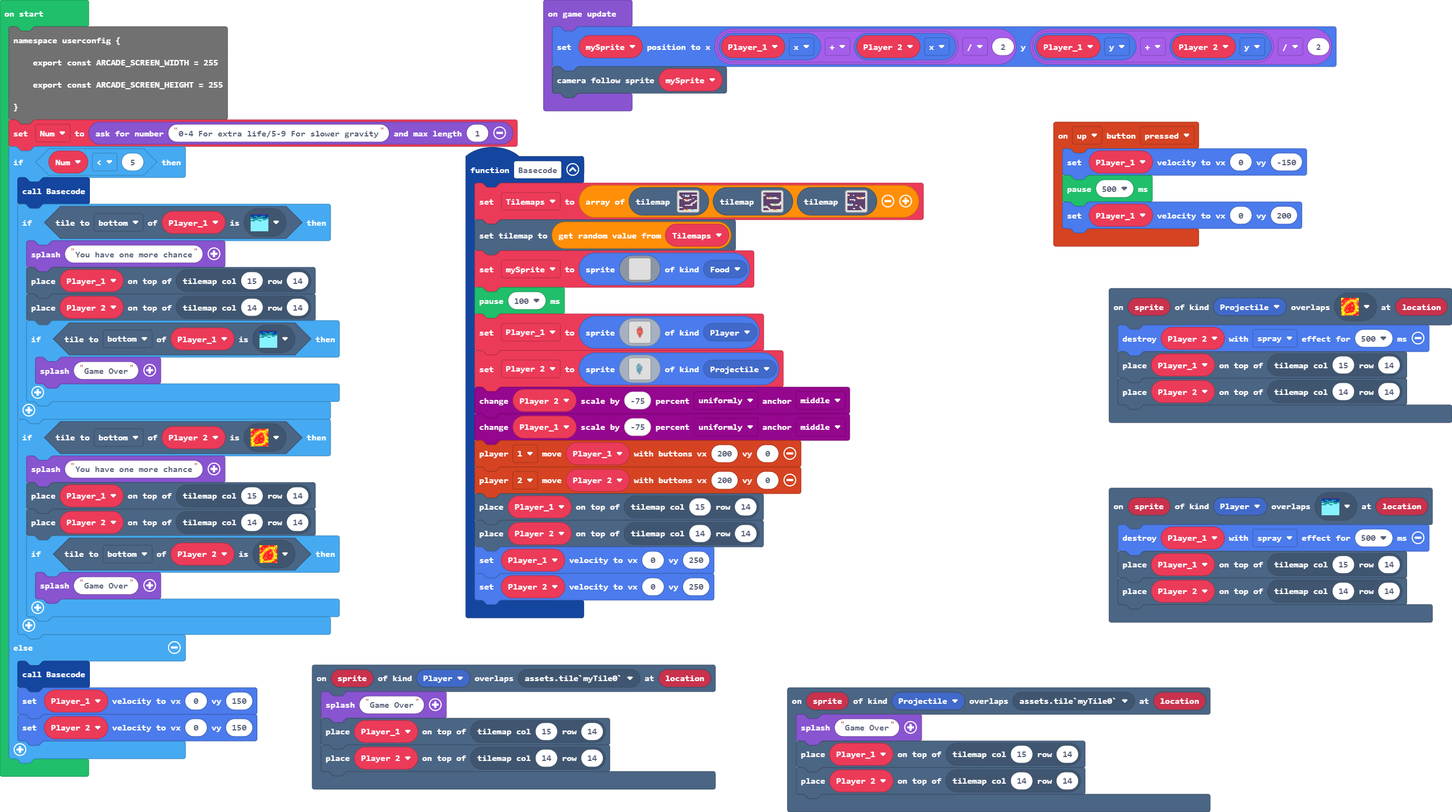
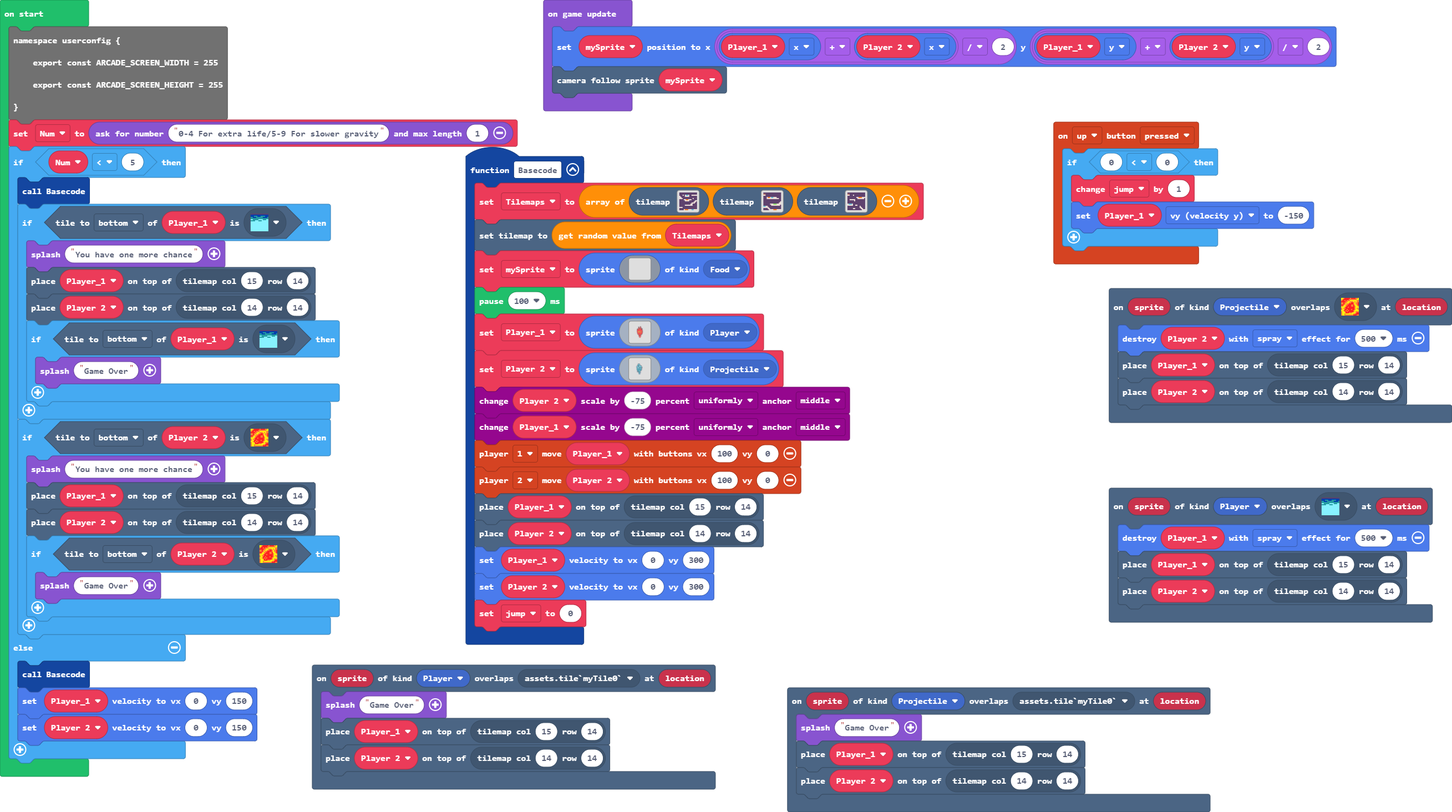
Update pxt.json, main.blocks, main.ts, images.g.jres, images.g.ts

Changed region(s): [[0.7116, 0.1844, 0.9282, 0.3381], [0.3094, 0.7377, 0.4022, 0.7992]]

diff --git a/images.g.ts b/images.g.ts
@@ -22,109 +22,6 @@ namespace myImages {
 . . . . . . . . . . . . . . . . 
 . . . . . . . . . . . . . . . . 
 `;
-            case "image1":
-            case "fire boy water girl":return img`
-..............................dfc....................................................................................................................
-..............................dffb...........................................bfffd...................................................................
-.............................................................................bfcfc...................................................................
-.............................................................................cfeffd..................................................................
-..............................................................cfb............cf22fc..................................................................
-..............................................................bffb...........cf22ffd.................................................................
-..............................................................bfffb..........ff22efb.................................................................
-..............................................................bffffd.........ff222fc.d...............................................................
-..................................................d...........dfcffc........dfe222efd.d..............................................................
-..............................................................dfeeffb.......bfe222efc................................................................
-..............................................................dfe2effd.....dbfe2222fc................................................................
-..............................................................dfe22ffc......cfe2222efd...............................................................
-..............................................................bfe22effd.....cfe2222efc...............................................................
-.............................................................dbfe222ffb....dff222222fc...............................................................
-..............................................................cfe222efc....dff222222ffd..............................................................
-..............................................................cfe2222ffd...bfe222222efbd....b........................................................
-..............................................................ff22222ffb...bfe222222efc....dfd.......................................................
-.............................................................bfc22222efc...cf22222222ff....dfb.......................................................
-............................................................dcfe222222ffd.dff22222222ffd...cfc.......................................................
-............................................................dff2222222ffd.dfc22222222ffd..dfffd......................................................
-.....................................................cd.....cfe2222222ffd.bfe22222222efb..dfffb......................................................
-.....................................................fc....dff22222222efb.cf222222222efc..bfffb.d....................................................
-....................................................cffb...bfe22222222efbdff2222222222ff..cfefc......................................................
-....................................................cffcd.dcfe22222222efcbfe2222222222ffddffeffd.....................................................
-....................................................feefbddff2222222222fccf22222222222ffdbff2ffb.....................................................
-....................................................feefc1bfe2222222222fffe22222222222ffbffe2efb.....................................................
-....................................................f22ffdbfe2222222222fff222222222222efcffe22fc.....................................................
-...................................................bf22efbbfe2222222222ffe222222222222effff222ffd....................................................
-...................................................cf222fccf22222222222e222222222222222fffe222cfd....................................................
-...................................................ff222ffff222222222222222222222222222fff2222efb....................................................
-...................................................fe222ffff222222222222222222222222222ffe2222efbd...................................................
-...................................................fe222effe222222222222222222222222222fe222222fc1...................................................
-...................................................fe2222ffe222222222222222222222222222e2222222fc1...................................................
-...................................................fe2222ff222222222222222222222222222222222222cfd...................................................
-...................................................fe2222ff222222222222222222222222222222222222efd...................................................
-...................................................fe2222fe222222222222222222222222222222222222efd...................................................
-...................................................fe2222ee2222222222222222222222222222222222222fb...................................................
-...................................................fe2222222222222222222222222222222222222222222fc...................................................
-...................................................fe2222222222222222222222222222222222222222222fc...................................................
-...................................................fe2222222222222222222222222222222222222222222fc...................................................
-...................................................fe2222222222222222222222222222222222222222222fc...................................................
-...................................................fe2222222222222222222222222222222222222222222ff...................................................
-...................................................fe222222222222ecffe22222222222222222222222222ef...................................................
-...................................................fe22222222222cee44ece222222222222222222222222ef...................................................
-...................................................fe2222222222fe555554ee2222222effff22222222222ef...................................................
-...................................................ff2222222222e55555554f222222ee754ee2222222222ef...................................................
-...................................................ff222222222f455555555f222222e55555c2222222222ef...................................................
-...................................................cf222222222c555555555e22222e4555554e222222222ef...................................................
-...................................................bf222222222c55555f555e22222f45e5555f222222222ef...................................................
-...................................................df222222222f55555c555f22222e45c4554e222222222ef...................................................
-...................................................dfe22222222f455555554c222222e55555e2222222222ef...................................................
-...................................................dfe22222222ee5555554f2222222fe555bf2222222222ef...................................................
-....................................................fe222222222ece444ece22222222feeefe2222222222ef...................................................
-....................................................cf2222222222efffff22222222222222222222222222ff...................................................
-....................................................cf222222222222222222222222222222222222222222fc...................................................
-....................................................bfe22222222222222222222222222222222222222222fc...................................................
-....................................................dfe2222222222222222222222222222222222222222efb...................................................
-....................................................dfe2222222222222222222222222222222222222222efd...................................................
-.....................................................cf2222222222222222222222222222222222222222cfd...................................................
-.....................................................bf222222222222222222222222222222222222222efc....................................................
-.....................................................dfe22222222222222222222222222222222222222efb....................................................
-.....................................................dcf22222222222222222222222222222222222222ffd....................................................
-......................................................cfe222222222222222222222222222222222222efc.....................................................
-......................................................dfc2222222222ee222222222222222222222222ffd.....................................................
-......................................................dcfe222222222eefe222222222222222222222efc......................................................
-.......................................................bff22222222222effe2222222222222222222ffd......................................................
-........................................................cfe22222222222effffcccce22222222222efc.......................................................
-........................................................dffe2222222222222eefffee2222222222effd.......................................................
-.........................................................bff22222222222222222222222222222effd........................................................
-.........................................................dcfe222222222222222222222222222effb..d......................................................
-..........................................................dcfe4222222222222222222222222effcd.........................................................
-.......................................................d...dffc4222222222222222222222eeffb...........................................................
-............................................................dfffe2222222222222222222efffb............................................................
-............................................................ddcfffe222222222222222efffcd.............................................................
-...............................................................bffffee22222222eecfffcb...............................................................
-................................................................dbcffffffffffffffffbd1d..............................................................
-...............................................................d..dfefffffffffffeee..d...............................................................
-................................................................d.ce2222eeee222222ed...d.............................................................
-..................................................................f2222222222222222c.................................................................
-.................................................................df22e2222222222e22eb................................................................
-..............................................................d..c222ff222222222fe22c................................................................
-.................................................................f22ecf222222222cc22eb...............................................................
-................................................................df22fbf222222222ede22c...............................................................
-................................................................be22cdf222222222e.c22ed..............................................................
-................................................................be2fbdf222222222e.de2ed..............................................................
-................................................................dc2cdde222222222e..cee...............................................................
-.................................................................bfb.de222222222e..dd.d..............................................................
-.................................................................dd..df222222222e....................................................................
-.....................................................................df222222222cdd..................................................................
-.....................................................................df2222fe222ed...................................................................
-....................................................................ddf2222bf222ed...................................................................
-.....................................................................df222ebe222ed...................................................................
-.....................................................................df222ebe222ed...................................................................
-.....................................................................df222edb222ed...................................................................
-......................................................................f222e1b222ed...................................................................
-......................................................................f222e1de22ed...................................................................
-.....................................................................df222b1de22ed...................................................................
-.....................................................................................................................................................
-.....................................................................................................................................................
-.....................................................................................................................................................
-`;
             case "image3":
             case "fire boy water girl0":return img`
 ....................................................db...............................................................................................
@@ -224,6 +121,109 @@ namespace myImages {
 .......................................................d..........c6668dd6668b..............d........................................................
 ..................................................................c666cdd6668b.......................................................................
 ..................................................................c666c11c668b.......................................................................
+.....................................................................................................................................................
+.....................................................................................................................................................
+.....................................................................................................................................................
+`;
+            case "image1":
+            case "fire boy water girl":return img`
+.....................................................................................................................................................
+.............................................................................bfffd...................................................................
+.............................................................................bfcfc...................................................................
+.............................................................................cfeffd..................................................................
+..............................................................cfb............cf22fc..................................................................
+..............................................................bffb...........cf22ffd.................................................................
+..............................................................bfffb..........ff22efb.................................................................
+..............................................................bffffd.........ff222fc.d...............................................................
+..................................................d...........dfcffc........dfe222efd.d..............................................................
+..............................................................dfeeffb.......bfe222efc................................................................
+..............................................................dfe2effd.....dbfe2222fc................................................................
+..............................................................dfe22ffc......cfe2222efd...............................................................
+..............................................................bfe22effd.....cfe2222efc...............................................................
+.............................................................dbfe222ffb....dff222222fc...............................................................
+..............................................................cfe222efc....dff222222ffd..............................................................
+..............................................................cfe2222ffd...bfe222222efbd....b........................................................
+..............................................................ff22222ffb...bfe222222efc....dfd.......................................................
+.............................................................bfc22222efc...cf22222222ff....dfb.......................................................
+............................................................dcfe222222ffd.dff22222222ffd...cfc.......................................................
+............................................................dff2222222ffd.dfc22222222ffd..dfffd......................................................
+.....................................................cd.....cfe2222222ffd.bfe22222222efb..dfffb......................................................
+.....................................................fc....dff22222222efb.cf222222222efc..bfffb.d....................................................
+....................................................cffb...bfe22222222efbdff2222222222ff..cfefc......................................................
+....................................................cffcd.dcfe22222222efcbfe2222222222ffddffeffd.....................................................
+....................................................feefbddff2222222222fccf22222222222ffdbff2ffb.....................................................
+....................................................feefc1bfe2222222222fffe22222222222ffbffe2efb.....................................................
+....................................................f22ffdbfe2222222222fff222222222222efcffe22fc.....................................................
+...................................................bf22efbbfe2222222222ffe222222222222effff222ffd....................................................
+...................................................cf222fccf22222222222e222222222222222fffe222cfd....................................................
+...................................................ff222ffff222222222222222222222222222fff2222efb....................................................
+...................................................fe222ffff222222222222222222222222222ffe2222efbd...................................................
+...................................................fe222effe222222222222222222222222222fe222222fc1...................................................
+...................................................fe2222ffe222222222222222222222222222e2222222fc1...................................................
+...................................................fe2222ff222222222222222222222222222222222222cfd...................................................
+...................................................fe2222ff222222222222222222222222222222222222efd...................................................
+...................................................fe2222fe222222222222222222222222222222222222efd...................................................
+...................................................fe2222ee2222222222222222222222222222222222222fb...................................................
+...................................................fe2222222222222222222222222222222222222222222fc...................................................
+...................................................fe2222222222222222222222222222222222222222222fc...................................................
+...................................................fe2222222222222222222222222222222222222222222fc...................................................
+...................................................fe2222222222222222222222222222222222222222222fc...................................................
+...................................................fe2222222222222222222222222222222222222222222ff...................................................
+...................................................fe222222222222ecffe22222222222222222222222222ef...................................................
+...................................................fe22222222222cee44ece222222222222222222222222ef...................................................
+...................................................fe2222222222fe555554ee2222222effff22222222222ef...................................................
+...................................................ff2222222222e55555554f222222ee754ee2222222222ef...................................................
+...................................................ff222222222f455555555f222222e55555c2222222222ef...................................................
+...................................................cf222222222c555555555e22222e4555554e222222222ef...................................................
+....................................................f222222222c55555f555e22222f45e5555f222222222ef...................................................
+...................................................df222222222f55555c555f22222e45c4554e222222222ef...................................................
+...................................................dfe22222222f455555554c222222e55555e2222222222ef...................................................
+...................................................dfe22222222ee5555554f2222222fe555bf2222222222ef...................................................
+....................................................fe222222222ece444ece22222222feeefe2222222222ef...................................................
+....................................................cf2222222222efffff22222222222222222222222222ff...................................................
+....................................................cf222222222222222222222222222222222222222222fc...................................................
+....................................................bfe22222222222222222222222222222222222222222fc...................................................
+....................................................dfe2222222222222222222222222222222222222222efb...................................................
+....................................................dfe2222222222222222222222222222222222222222efd...................................................
+.....................................................cf2222222222222222222222222222222222222222cfd...................................................
+.....................................................bf222222222222222222222222222222222222222efc....................................................
+.....................................................dfe22222222222222222222222222222222222222efb....................................................
+.....................................................dcf22222222222222222222222222222222222222ffd....................................................
+......................................................cfe222222222222222222222222222222222222efc.....................................................
+......................................................dfc2222222222ee222222222222222222222222ffd.....................................................
+......................................................dcfe222222222eefe222222222222222222222efc......................................................
+.......................................................bff22222222222effe2222222222222222222ffd......................................................
+........................................................cfe22222222222effffcccce22222222222efc.......................................................
+........................................................dffe2222222222222eefffee2222222222eff........................................................
+.........................................................bff22222222222222222222222222222effd........................................................
+.........................................................dcfe222222222222222222222222222effb..d......................................................
+..........................................................dcfe4222222222222222222222222effcd.........................................................
+.......................................................d...dffc4222222222222222222222eeffb...........................................................
+............................................................dfffe2222222222222222222efffb............................................................
+............................................................ddcfffe222222222222222efffcd.............................................................
+...............................................................bffffee22222222eecfffcb...............................................................
+................................................................dbcffffffffffffffffbd1d..............................................................
+...............................................................d..dfefffffffffffeee..d...............................................................
+................................................................d.ce2222eeee222222ed...d.............................................................
+..................................................................f2222222222222222c.................................................................
+.................................................................df22e2222222222e22eb................................................................
+..............................................................d..c222ff222222222fe22c................................................................
+.................................................................f22ecf222222222cc22eb...............................................................
+................................................................df22fbf222222222ede22c...............................................................
+................................................................be22c.f222222222e.c22ed..............................................................
+................................................................be2fb.f222222222e.de2ed..............................................................
+................................................................dc2c..e222222222e..cee...............................................................
+.................................................................bfb..e222222222e..dd.d..............................................................
+.................................................................dd...f222222222e....................................................................
+......................................................................f222222222cdd..................................................................
+......................................................................f2222fe222ed...................................................................
+......................................................................f2222bf222ed...................................................................
+......................................................................f222ebe222ed...................................................................
+......................................................................f222ebe222ed...................................................................
+......................................................................f222edb222ed...................................................................
+......................................................................f222e1b222ed...................................................................
+......................................................................f222e1de22ed...................................................................
+.....................................................................df222b1de22ed...................................................................
 .....................................................................................................................................................
 .....................................................................................................................................................
 .....................................................................................................................................................

diff --git a/main.ts b/main.ts
@@ -4,9 +4,10 @@ scene.onOverlapTile(SpriteKind.Player, assets.tile`myTile0`, function (sprite, l
     tiles.placeOnTile(Player_2, tiles.getTileLocation(14, 14))
 })
 controller.up.onEvent(ControllerButtonEvent.Pressed, function () {
-    Player_1.setVelocity(0, -150)
-    pause(500)
-    Player_1.setVelocity(0, 200)
+    if (0 < 0) {
+        jump += 1
+        Player_1.vy = -150
+    }
 })
 scene.onOverlapTile(SpriteKind.Projectile, sprites.dungeon.hazardLava0, function (sprite, location) {
     sprites.destroy(Player_2, effects.spray, 500)
@@ -49,15 +50,17 @@ function Basecode () {
     Player_2 = sprites.create(assets.image`fire boy water girl0`, SpriteKind.Projectile)
     scaling.scaleByPercent(Player_2, -75, ScaleDirection.Uniformly, ScaleAnchor.Middle)
     scaling.scaleByPercent(Player_1, -75, ScaleDirection.Uniformly, ScaleAnchor.Middle)
-    controller.player1.moveSprite(Player_1, 200, 0)
-    controller.player2.moveSprite(Player_2, 200, 0)
+    controller.player1.moveSprite(Player_1, 100, 0)
+    controller.player2.moveSprite(Player_2, 100, 0)
     tiles.placeOnTile(Player_1, tiles.getTileLocation(15, 14))
     tiles.placeOnTile(Player_2, tiles.getTileLocation(14, 14))
-    Player_1.setVelocity(0, 250)
-    Player_2.setVelocity(0, 250)
+    Player_1.setVelocity(0, 300)
+    Player_2.setVelocity(0, 300)
+    jump = 0
 }
 let mySprite: Sprite = null
 let Tilemaps: tiles.TileMapData[] = []
+let jump = 0
 let Player_2: Sprite = null
 let Player_1: Sprite = null
 namespace userconfig {
